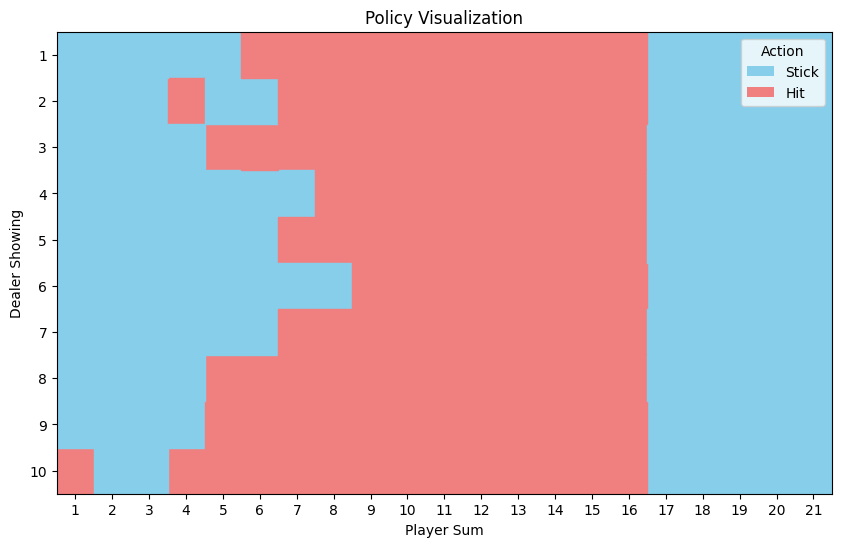
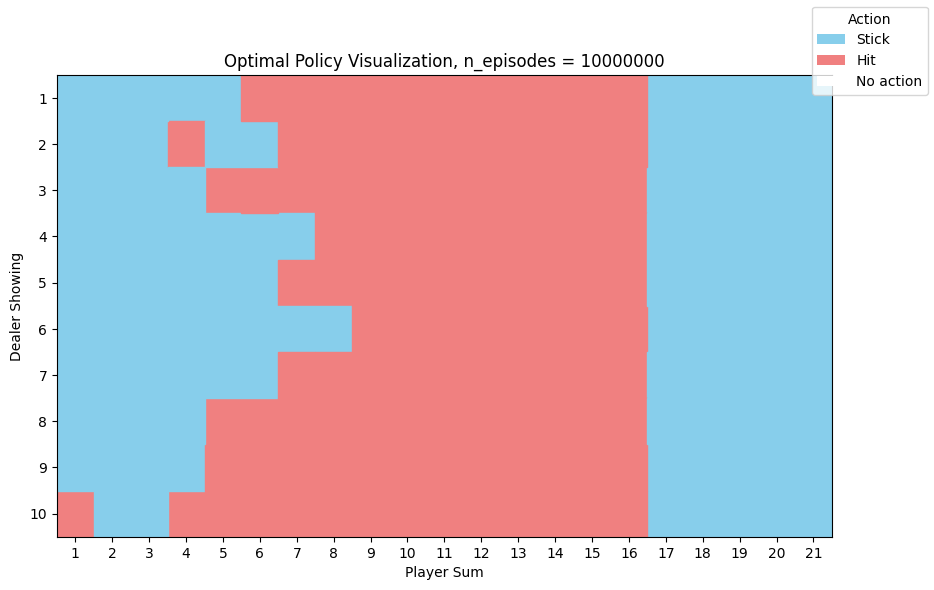
Update title of optimal policy and bug in policy plotting

Changed region(s): [[0.0, 0.0, 1.0, 0.9945]]

diff --git a/easy21 assignment.py b/easy21 assignment.py
@@ -417,9 +417,9 @@ def Sarsa_λ_Tabular_Experiment(lambdas, n_episodes, Q_star):
     MSEs = np.zeros((n_episodes, len(lambdas))) # For plotting learning curves of \lambda = 0 and 1
     envs = []    
 
-    for i, λ in enumerate(lambdas):
-        env.λ = λ
+    for i, λ in enumerate(lambdas):        
         env = Easy_21_Environment(discount = 1, N_0 = 100) # Remember to initialize an env for other learning algorithms
+        env.λ = λ
 
         # Training loop
         for j in tqdm(range(n_episodes)):
@@ -437,7 +437,7 @@ def Sarsa_λ_Tabular_Experiment(lambdas, n_episodes, Q_star):
     plot_MSE_against_lambda(lambdas, final_MSEs,
                             title = r'MSE between $Q^*$ and Q learned from Tabular Sarsa $\lambda$ after ' + f'{n_episodes} episodes')    
     for env in envs:
-        plot_policy(env.policy, title = f"Policy Visualization \lambda = {env.λ}")
+        plot_policy(env.policy, title = f"Policy Visualization $\lambda$ = {round(env.λ, 2)}")
 
     return envs
 
@@ -445,9 +445,9 @@ def Sarsa_λ_FA_Experiment(lambdas, n_episodes, Q_star):
     MSEs = np.zeros((n_episodes, len(lambdas))) # For plotting learning curves of \lambda = 0 and 1
     envs = []
 
-    for i, λ in enumerate(lambdas):
-        env.λ = λ
+    for i, λ in enumerate(lambdas):        
         env = Easy_21_Environment(discount = 1, N_0 = None) # Remember to initialize an env for other learning algorithms
+        env.λ = λ
         env.weights = np.zeros(36) # 6 x 3 x 2 features, which forms a feature vector that is dot product with this weights vector
         env.Q = linear_FA_constructor(feature_vector, env.weights)
 
@@ -468,7 +468,7 @@ def Sarsa_λ_FA_Experiment(lambdas, n_episodes, Q_star):
     plot_MSE_against_lambda(lambdas, final_MSEs,
                             title = r'MSE between $Q^*$ and Q learned from FA Sarsa $\lambda$ after ' + f'{n_episodes} episodes')
     for env in envs:
-        plot_policy(env.policy, title = f"Policy Visualization \lambda = {env.λ}")
+        plot_policy(env.policy, title = f"Policy Visualization $\lambda$ = {round(env.λ, 2)}")
 
     return envs
 
@@ -480,10 +480,10 @@ if __name__ == '__main__':
     lambdas = np.arange(0, 1.1, 0.1)
 
     # Choose experiment
-    env = MC_Experiment(n_episodes)
+    # env = MC_Experiment(n_episodes)
     
     # envs = Sarsa_λ_FA_Experiment(lambdas, n_episodes, Optimal_Agent.Q)
 
-    # envs = Sarsa_λ_Tabular_Experiment(lambdas, n_episodes, Optimal_Agent.Q)
+    envs = Sarsa_λ_Tabular_Experiment(lambdas, n_episodes, Optimal_Agent.Q)
     
     
